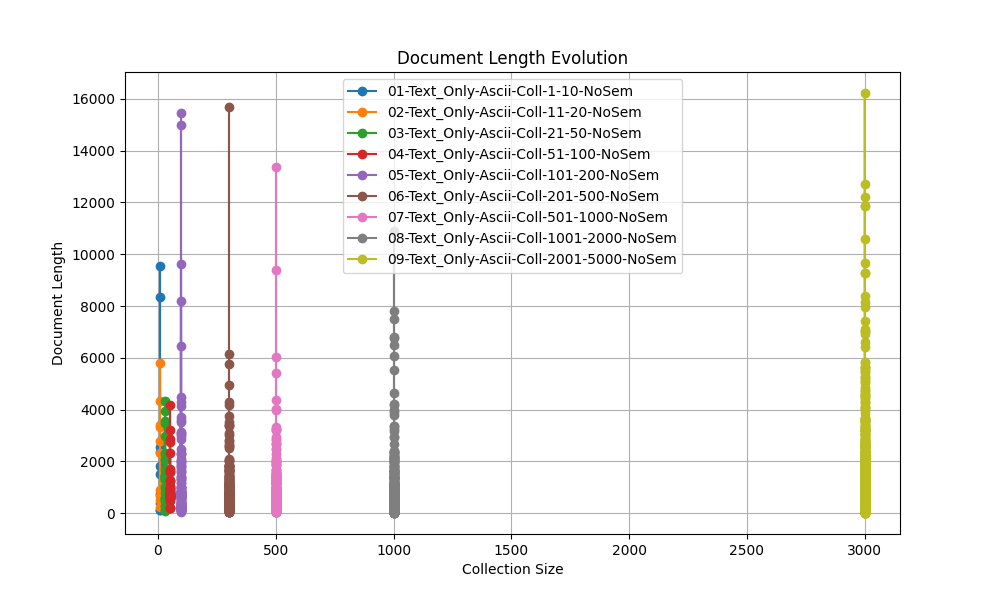
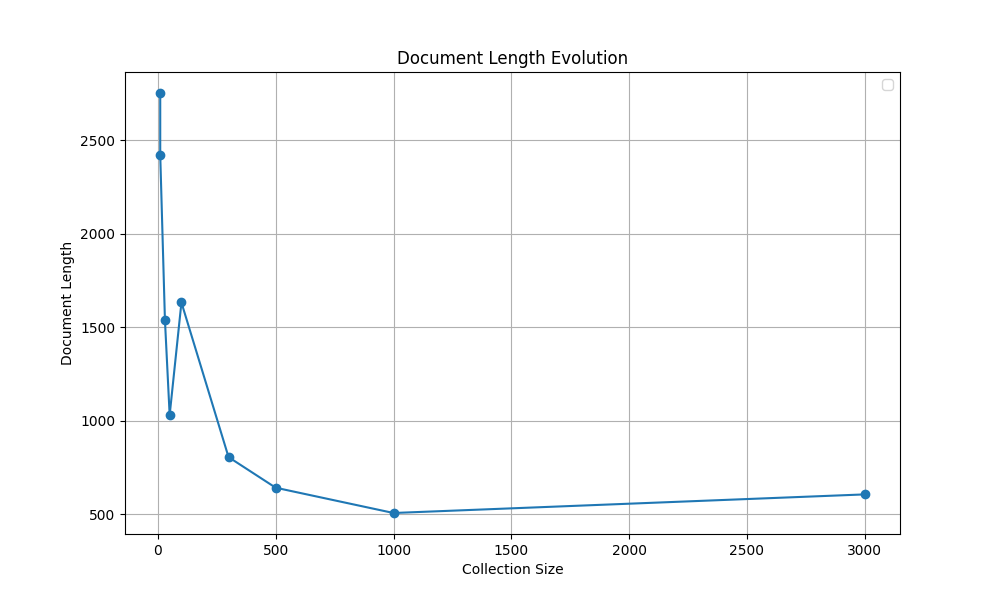
fix: avg docs length computation

diff --git a/src/models/statistics.py b/src/models/statistics.py
@@ -8,7 +8,8 @@ class Statistics:
     def __init__(self, collection):
         self.collection = collection
 
-        self.document_lengths = []
+        self.avg_document_lengths = []
+        self.avg_collection_lengths = []
 
         self.avg_term_lengths_in_docs = []  # Average term length in each document
         self.avg_term_lengths_in_collection = []  # Average term length in the collection
@@ -31,16 +32,17 @@ class Statistics:
             content = list(doc.values())[0]
             tokens = self.collection.text_processor.pre_processing(content)
 
-            self.document_lengths.append(len(tokens))
-
             term_length = sum(len(token) for token in tokens)
             self.avg_term_lengths_in_docs.append(term_length / len(tokens))
 
             self.documents_vocabulary_sizes.append(len(set(tokens)))
+            self.avg_document_lengths.append(len(tokens))
 
         self.collection_vocabulary_sizes = len(set(self.collection.inverted_index.keys()))
 
+        self.avg_collection_lengths = statistics.mean(self.avg_document_lengths)
         self.avg_term_lengths_in_collection = statistics.mean(self.avg_term_lengths_in_docs)
+
         self.collection.calculate_collection_frequencies()
         self.collection_frequency_of_terms = sum(
             list(self.collection.collection_frequencies.values()))
@@ -53,7 +55,7 @@ class Statistics:
             writer = csv.writer(file)
             writer.writerow(['Statistic', 'Value'])
             writer.writerow(['Number of documents', len(self.collection.parsed_documents)])
-            writer.writerow(['Average document length', statistics.mean(self.document_lengths)])
+            writer.writerow(['Average document length', statistics.mean(self.avg_document_lengths)])
             writer.writerow(['Average term length in collection', self.avg_term_lengths_in_collection])
             writer.writerow(['Number of unique terms in collection', self.collection_vocabulary_sizes])
             writer.writerow(['Total number of terms in collection', self.collection_frequency_of_terms])

diff --git a/src/manager/plots_manager.py b/src/manager/plots_manager.py
@@ -36,15 +36,14 @@ class PlotsManager:
         Plot the evolution of document length as the collection size grows.
         """
         plt.figure(figsize=(10, 6))
-
-        for collection in self.collections_manager.collections:
-            collection_sizes = [
-                collection.collection_size] * len(collection.collection_statistics.document_lengths)
-
-            document_lengths = collection.collection_statistics.document_lengths
-
-            plt.plot(collection_sizes, document_lengths, marker='o',
-                     linestyle='-', label=collection.label)
+        
+        collection_sizes = [
+            collection.collection_size for collection in self.collections_manager.collections]
+        
+        avg_collection_lengths = [
+            collection.collection_statistics.avg_collection_lengths for collection in self.collections_manager.collections]
+        
+        plt.plot(collection_sizes, avg_collection_lengths, marker='o', linestyle='-')
 
         plt.title('Document Length Evolution')
         plt.xlabel(self.__xlabel)
